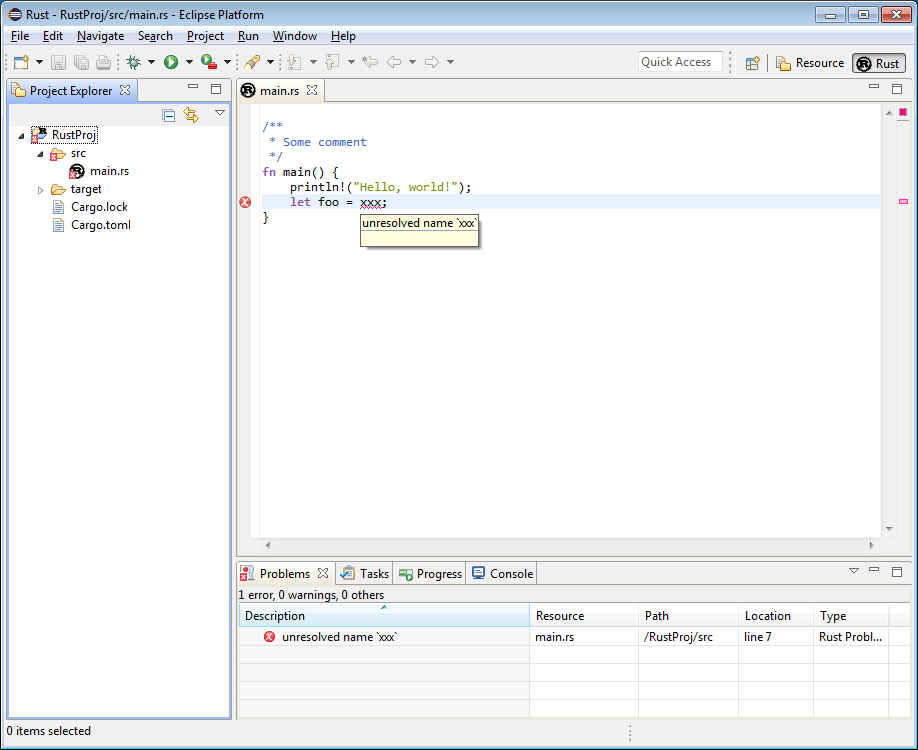
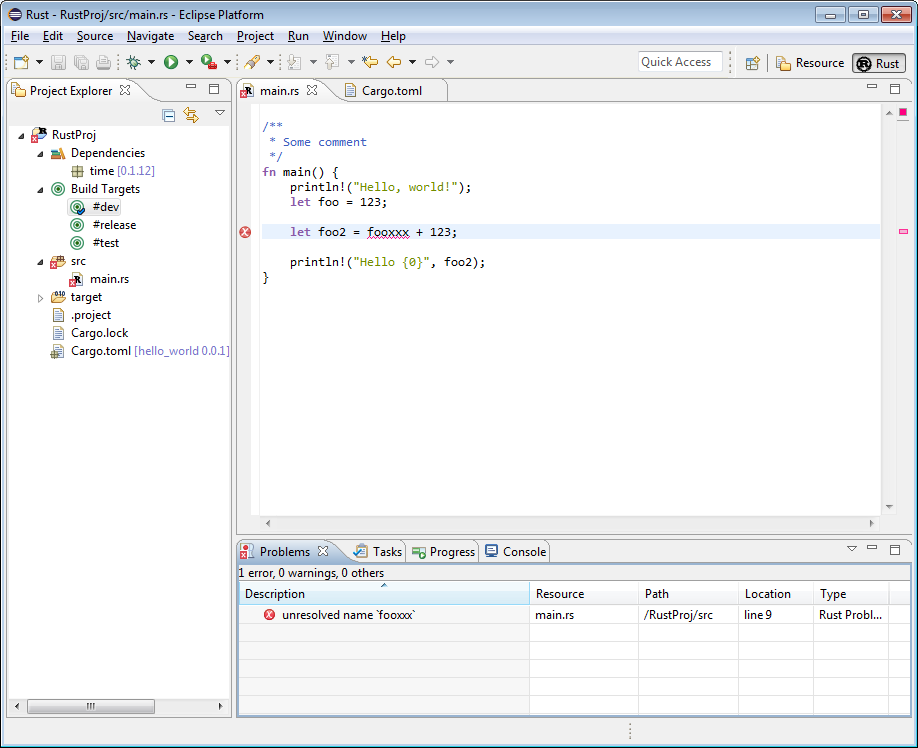
Add Dependency elements to Project Explorer.

diff --git a/plugin_ide.ui/src/com/github/rustdt/ide/ui/navigator/RustNavigatorLabelProvider.java b/plugin_ide.ui/src/com/github/rustdt/ide/ui/navigator/RustNavigatorLabelProvider.java
@@ -10,21 +10,17 @@
  *******************************************************************************/
 package com.github.rustdt.ide.ui.navigator;
 
-import static melnorme.lang.ide.ui.views.StylerHelpers.fgColor;
-
 import org.eclipse.core.resources.IFile;
 import org.eclipse.core.resources.IFolder;
 import org.eclipse.core.runtime.Path;
 import org.eclipse.jface.resource.ImageDescriptor;
 import org.eclipse.jface.viewers.DelegatingStyledCellLabelProvider.IStyledLabelProvider;
 import org.eclipse.jface.viewers.StyledString;
-import org.eclipse.swt.graphics.RGB;
 
 import com.github.rustdt.ide.core.cargomodel.RustBundleInfo;
 import com.github.rustdt.tooling.cargo.CargoManifestParser;
 
 import melnorme.lang.ide.core.LangCore_Actual;
-import melnorme.lang.ide.core.project_model.view.BundleErrorElement;
 import melnorme.lang.ide.core.project_model.view.IBundleModelElement;
 import melnorme.lang.ide.core.utils.ResourceUtils;
 import melnorme.lang.ide.ui.LangImages;
@@ -71,20 +67,18 @@ public class RustNavigatorLabelProvider extends LangNavigatorLabelProvider imple
 	}
 	
 	@Override
-	protected DefaultGetStyledTextSwitcher getStyledText_switcher() {
-		return new RustNavigatorStyledTextSwitcher();
+	protected DefaultGetStyledStringSwitcher getStyledString_switcher() {
+		return new RustNavigatorStyledStringSwitcher();
 	}
 	
 	@Override
 	protected DefaultGetImageSwitcher getBaseImage_switcher() {
-		return new RustNavigatorImageSwitchers();
+		return new RustNavigatorImageSwitcher();
 	}
 	
-	protected static final RGB ANNOTATION_FG = new RGB(120, 120, 200);
-	
-	protected class RustNavigatorStyledTextSwitcher extends DefaultGetStyledTextSwitcher
+	protected class RustNavigatorStyledStringSwitcher extends DefaultGetStyledStringSwitcher
 			implements RustNavigatorLabelElementsSwitcher<StyledString> {
-			
+		
 		@Override
 		public StyledString visitManifestFile(IFile element) {
 			RustBundleInfo bundleInfo = LangCore_Actual.getBundleModel().getProjectInfo(element.getProject());
@@ -94,9 +88,7 @@ public class RustNavigatorLabelProvider extends LangNavigatorLabelProvider imple
 			String bundleVersion = bundleInfo.getManifest().getVersion();
 			
 			StyledString baseString = new StyledString(element.getName());
-			String versionString = bundleVersion == null ? "?" : bundleVersion;
-			String crateInfo = " [" + bundleInfo.getCrateName() + " " + versionString + "]";
-			return baseString.append(crateInfo, fgColor(ANNOTATION_FG));
+			return appendBundleRef(baseString, bundleInfo.getCrateName(), bundleVersion);
 		}
 		
 		@Override
@@ -116,14 +108,14 @@ public class RustNavigatorLabelProvider extends LangNavigatorLabelProvider imple
 		
 		@Override
 		public StyledString visitBundleElement(IBundleModelElement bundleElement) {
-			return new BundleModelGetStyledTextSwitcher() {
+			return new BundleModelGetStyledStringSwitcher() {
 				
 			}.switchBundleElement(bundleElement);
 		}
 		
 	}
 	
-	protected class RustNavigatorImageSwitchers extends DefaultGetImageSwitcher
+	protected class RustNavigatorImageSwitcher extends DefaultGetImageSwitcher
 			implements RustNavigatorLabelElementsSwitcher<ImageDescriptor> {
 			
 		@Override
@@ -149,10 +141,7 @@ public class RustNavigatorLabelProvider extends LangNavigatorLabelProvider imple
 		@Override
 		public ImageDescriptor visitBundleElement(IBundleModelElement bundleElement) {
 			return new BundleModelGetImageSwitcher() {
-				@Override
-				public ImageDescriptor visitErrorElement2(BundleErrorElement element) {
-					return null;
-				}
+				
 			}.switchBundleElement(bundleElement);
 		}
 		

diff --git a/plugin_tooling/src/com/github/rustdt/tooling/cargo/CrateManifest.java b/plugin_tooling/src/com/github/rustdt/tooling/cargo/CrateManifest.java
@@ -31,40 +31,13 @@ public class CrateManifest {
 	/* -----------------  ----------------- */
 	
 	public static class CrateDependencyRef extends DependencyRef {
-		/* FIXME:  refactor to Lang */
-		protected final boolean optional;
 		
-		public CrateDependencyRef(String name, String version) {
-			this(name, version, false);
+		public CrateDependencyRef(String bundleName, String version) {
+			super(bundleName, version);
 		}
 		
-		public CrateDependencyRef(String name, String version, boolean optional) {
-			super(name, version);
-			this.optional = optional;
-		}
-		
-		@Override
-		public boolean equals(Object obj) {
-			if(this == obj) return true;
-			if(!(obj instanceof CrateDependencyRef)) return false;
-			
-			CrateDependencyRef other = (CrateDependencyRef) obj;
-			
-			return 
-				areEqual(bundleName, other.bundleName) &&
-				areEqual(version, other.version) &&
-				areEqual(optional, other.optional)
-			;
-		}
-		
-		@Override
-		public int hashCode() {
-			return HashcodeUtil.combinedHashCode(bundleName, version, optional);
-		}
-		
-		@Override
-		public String toString() {
-			return MessageFormat.format("{0}@{1}{2}", bundleName, nullAsEmpty(version), optional ? " OPT" : "");
+		public CrateDependencyRef(String bundleName, String version, boolean optional) {
+			super(bundleName, version, optional);
 		}
 		
 	}

diff --git a/plugin_ide.ui/src/com/github/rustdt/ide/ui/navigator/RustNavigatorContentProvider.java b/plugin_ide.ui/src/com/github/rustdt/ide/ui/navigator/RustNavigatorContentProvider.java
@@ -10,7 +10,14 @@
  *******************************************************************************/
 package com.github.rustdt.ide.ui.navigator;
 
+import org.eclipse.core.resources.IProject;
+
+import com.github.rustdt.ide.core.cargomodel.RustBundleInfo;
+
+import melnorme.lang.ide.core.LangCore_Actual;
+import melnorme.lang.ide.core.project_model.view.DependenciesContainer;
 import melnorme.lang.ide.ui.views.AbstractNavigatorContentProvider;
+import melnorme.utilbox.collections.ArrayList2;
 
 public class RustNavigatorContentProvider extends AbstractNavigatorContentProvider {
 	
@@ -23,6 +30,13 @@ public class RustNavigatorContentProvider extends AbstractNavigatorContentProvid
 	@Override
 	protected LangNavigatorSwitcher_GetChildren getChildren_switcher() {
 		return new LangNavigatorSwitcher_GetChildren() {
+			@Override
+			public void addFirstProjectChildren(IProject project, ArrayList2<Object> projectChildren) {
+				RustBundleInfo projectInfo = LangCore_Actual.getBundleModel().getProjectInfo(project);
+				if(projectInfo != null) {
+					projectChildren.add(new DependenciesContainer(projectInfo, project));
+				}
+			}
 		};
 	}
 	

diff --git a/plugin_ide.ui/src/com/github/rustdt/ide/ui/navigator/RustNavigatorSorter.java b/plugin_ide.ui/src/com/github/rustdt/ide/ui/navigator/RustNavigatorSorter.java
@@ -12,7 +12,6 @@ package com.github.rustdt.ide.ui.navigator;
 
 import java.text.Collator;
 
-import melnorme.lang.ide.core.project_model.view.IBundleModelElement;
 import melnorme.lang.ide.ui.navigator.LangNavigatorSorter;
 
 public class RustNavigatorSorter extends LangNavigatorSorter {
@@ -27,15 +26,7 @@ public class RustNavigatorSorter extends LangNavigatorSorter {
 	
 	@Override
 	protected LangNavigatorSorter_Switcher switcher_Sorter() {
-		return new LangNavigatorSorter_Switcher() {
-			@Override
-			public Integer visitBundleElement(IBundleModelElement bundleElement) {
-				/* FIXME: */
-				return new BundleModelElementsSorterSwitcher() {
-					
-				}.switchBundleElement(bundleElement);
-			}
-		};
+		return new LangNavigatorSorter_Switcher() { };
 	}
 	
 }

diff --git a/documentation/ChangeLog.md b/documentation/ChangeLog.md
@@ -1,7 +1,8 @@
 ## RustDT release ChangeLog
 
 ### (NextVersion)
- * Added custom Project Explorer icons for Rust crate elements such as `src`, `test`, `target` folders, and the `Cargo.toml` file.
+ * Added specific Project Explorer icons for Rust crate elements such as `src`, `test`, `target` folders, and the `Cargo.toml` file.
+ * Added Project Explorer element with Cargo unresolved dependencies.
  * Fixed: Properly parse Racer "END" line syntax, don't show error when this occurs.
  * Fixed #41: Don't show error dialog when Racer fails. Only the editor status line is updated now.
  * Fixed: Occasional AssertionFailure when creating new projects in nested locations (project would not show up in Explorer).
